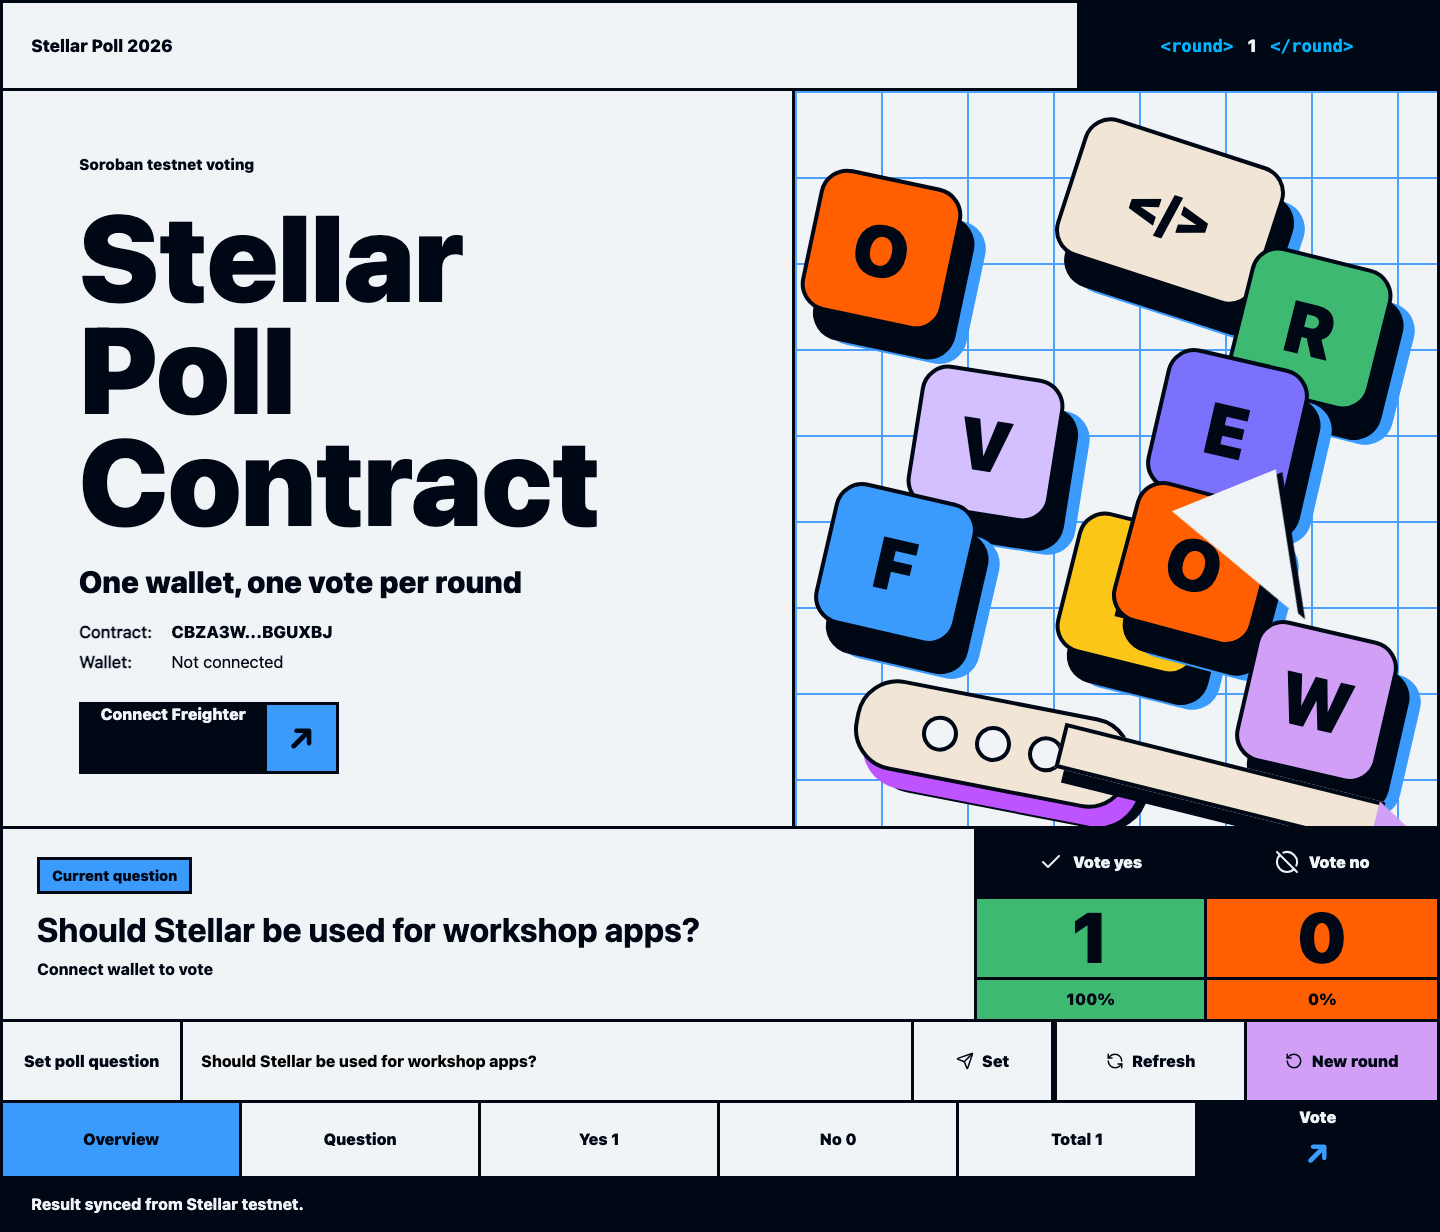
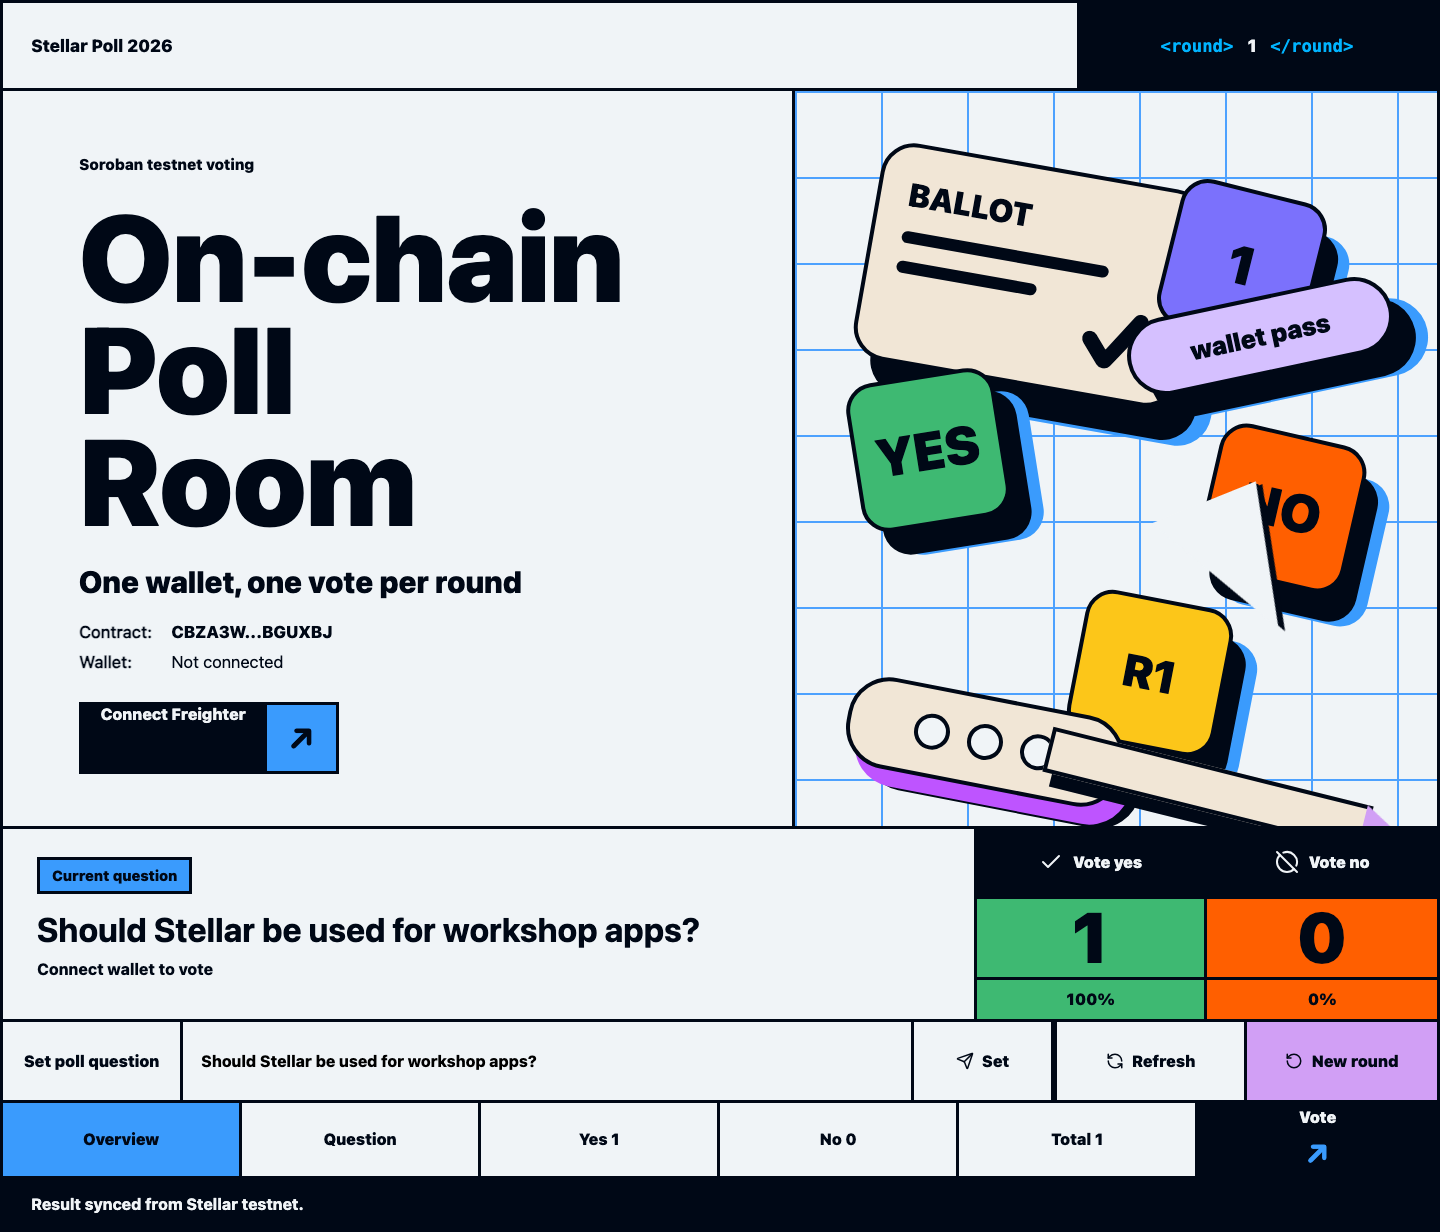
Rework poll UI theme

Changed region(s): [[0.5312, 0.0925, 1.0, 0.6786], [0.0625, 0.1542, 0.4375, 0.2468], [0.0625, 0.3393, 0.4375, 0.4318]]

diff --git a/src/styles.css b/src/styles.css
@@ -170,44 +170,83 @@ h1 {
   background-size: 86px 86px;
 }
 
-.tile {
+.vote-cube,
+.ballot-card,
+.wallet-ticket {
   position: absolute;
-  width: 145px;
-  height: 145px;
   display: grid;
   place-items: center;
   border: 4px solid var(--ink);
-  border-radius: 28px;
   color: var(--ink);
-  font-size: 4.5rem;
   font-weight: 920;
   transform: rotate(12deg);
   box-shadow: 18px 26px 0 var(--ink), 30px 28px 0 var(--blue);
 }
 
-.tile-orange { background: var(--orange); }
-.tile-paper { background: oklch(93% 0.025 78); }
-.tile-mint { background: var(--mint); }
-.tile-lilac { background: var(--lilac); }
-.tile-purple { background: var(--purple); }
-.tile-blue { background: var(--blue); }
-.tile-yellow { background: var(--yellow); }
-.tile-pink { background: var(--pink); }
+.vote-cube {
+  width: 150px;
+  height: 150px;
+  border-radius: 28px;
+  font-size: 3.3rem;
+}
 
-.tile-o-one { top: 86px; left: 14px; }
-.tile-code { top: 48px; left: 270px; width: 210px; transform: rotate(18deg); font-size: 3.2rem; }
-.tile-r { top: 165px; right: 54px; transform: rotate(14deg); }
-.tile-v { top: 280px; left: 118px; transform: rotate(9deg); }
-.tile-e { top: 266px; left: 360px; transform: rotate(13deg); }
-.tile-f { bottom: 190px; left: 28px; transform: rotate(13deg); }
-.tile-l { bottom: 160px; left: 270px; transform: rotate(14deg); }
-.tile-o-two { bottom: 190px; right: 170px; transform: rotate(15deg); }
-.tile-w { bottom: 52px; right: 48px; transform: rotate(13deg); }
+.ballot-card {
+  top: 74px;
+  left: 70px;
+  width: 330px;
+  height: 220px;
+  padding: 28px;
+  place-items: start;
+  align-content: start;
+  gap: 18px;
+  border-radius: 34px;
+  background: oklch(93% 0.025 78);
+  transform: rotate(10deg);
+  box-shadow: 22px 30px 0 var(--ink), 38px 33px 0 var(--blue);
+}
+
+.ballot-title {
+  font-size: 2rem;
+  font-weight: 920;
+}
+
+.ballot-line {
+  width: 210px;
+  height: 12px;
+  border-radius: 999px;
+  background: var(--ink);
+}
+
+.ballot-line.short { width: 142px; }
+
+.ballot-mark {
+  position: absolute;
+  right: 28px;
+  bottom: 16px;
+  font-size: 5.2rem;
+  line-height: 1;
+}
+
+.cube-yes { top: 284px; left: 58px; background: var(--mint); transform: rotate(-9deg); }
+.cube-no { top: 342px; right: 80px; background: var(--orange); transform: rotate(13deg); }
+.cube-one { top: 98px; right: 120px; background: var(--purple); transform: rotate(14deg); }
+.cube-round { bottom: 78px; left: 280px; background: var(--yellow); transform: rotate(11deg); font-size: 2.8rem; }
+
+.wallet-ticket {
+  right: 42px;
+  top: 206px;
+  width: 270px;
+  height: 78px;
+  border-radius: 999px;
+  background: var(--lilac);
+  font-size: 1.6rem;
+  transform: rotate(-12deg);
+}
 
 .cursor-shape {
   position: absolute;
-  top: 394px;
-  left: 400px;
+  top: 406px;
+  left: 380px;
   width: 0;
   height: 0;
   border-left: 78px solid transparent;
@@ -219,8 +258,8 @@ h1 {
 
 .chat-shape {
   position: absolute;
-  bottom: 36px;
-  left: 58px;
+  bottom: 38px;
+  left: 50px;
   width: 280px;
   height: 92px;
   display: flex;
@@ -244,8 +283,8 @@ h1 {
 
 .pencil-shape {
   position: absolute;
-  right: 52px;
-  bottom: 18px;
+  right: 64px;
+  bottom: 14px;
   width: 330px;
   height: 46px;
   border: 4px solid var(--ink);
@@ -468,17 +507,17 @@ svg { flex: 0 0 auto; }
   .date-line { font-size: 1.35rem; }
   .register-button { width: 100%; }
   .visual-board { min-height: 420px; background-size: 58px 58px; }
-  .tile { width: 96px; height: 96px; font-size: 3rem; border-width: 3px; border-radius: 20px; box-shadow: 10px 15px 0 var(--ink), 18px 16px 0 var(--blue); }
-  .tile-code { width: 140px; font-size: 2rem; }
-  .tile-o-one { top: 44px; left: 18px; }
-  .tile-code { top: 34px; left: 150px; }
-  .tile-r { top: 92px; right: 18px; }
-  .tile-v { top: 176px; left: 46px; }
-  .tile-e { top: 174px; left: 190px; }
-  .tile-f { bottom: 104px; left: 18px; }
-  .tile-l { bottom: 94px; left: 138px; }
-  .tile-o-two { bottom: 96px; right: 34px; }
-  .tile-w { bottom: 22px; right: 18px; }
+  .vote-cube { width: 96px; height: 96px; font-size: 2rem; border-width: 3px; border-radius: 20px; box-shadow: 10px 15px 0 var(--ink), 18px 16px 0 var(--blue); }
+  .ballot-card { top: 34px; left: 20px; width: 225px; height: 160px; padding: 20px; border-width: 3px; border-radius: 24px; }
+  .ballot-title { font-size: 1.35rem; }
+  .ballot-line { width: 140px; height: 9px; }
+  .ballot-line.short { width: 96px; }
+  .ballot-mark { font-size: 3.4rem; }
+  .cube-yes { top: 194px; left: 22px; }
+  .cube-no { top: 242px; right: 34px; }
+  .cube-one { top: 38px; right: 30px; }
+  .cube-round { bottom: 68px; left: 140px; font-size: 1.8rem; }
+  .wallet-ticket { top: 162px; right: 14px; width: 170px; height: 58px; font-size: 1rem; }
   .cursor-shape,
   .chat-shape,
   .pencil-shape { display: none; }

diff --git a/src/main.js b/src/main.js
@@ -96,7 +96,7 @@ function render() {
       <section class="hero-grid">
         <section class="hero-copy">
           <p class="kicker">Soroban testnet voting</p>
-          <h1>Stellar<br />Poll<br />Contract</h1>
+          <h1>On-chain<br />Poll<br />Room</h1>
           <p class="date-line">One wallet, one vote per round</p>
 
           <div class="partner-lines">
@@ -111,15 +111,17 @@ function render() {
         </section>
 
         <section class="visual-board" aria-label="Poll visual board">
-          <div class="tile tile-orange tile-o-one">O</div>
-          <div class="tile tile-paper tile-code">&lt;/&gt;</div>
-          <div class="tile tile-mint tile-r">R</div>
-          <div class="tile tile-lilac tile-v">V</div>
-          <div class="tile tile-purple tile-e">E</div>
-          <div class="tile tile-blue tile-f">F</div>
-          <div class="tile tile-yellow tile-l">L</div>
-          <div class="tile tile-orange tile-o-two">O</div>
-          <div class="tile tile-pink tile-w">W</div>
+          <div class="ballot-card">
+            <span class="ballot-title">BALLOT</span>
+            <span class="ballot-line"></span>
+            <span class="ballot-line short"></span>
+            <span class="ballot-mark">✓</span>
+          </div>
+          <div class="vote-cube cube-yes">YES</div>
+          <div class="vote-cube cube-no">NO</div>
+          <div class="vote-cube cube-one">1</div>
+          <div class="vote-cube cube-round">R${state.round}</div>
+          <div class="wallet-ticket">wallet pass</div>
           <div class="cursor-shape"></div>
           <div class="chat-shape"><span></span><span></span><span></span></div>
           <div class="pencil-shape"></div>